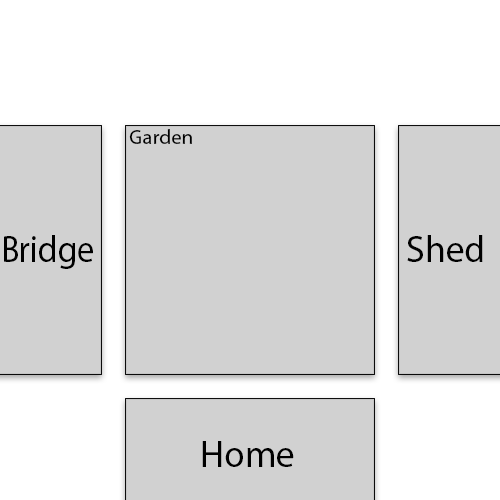
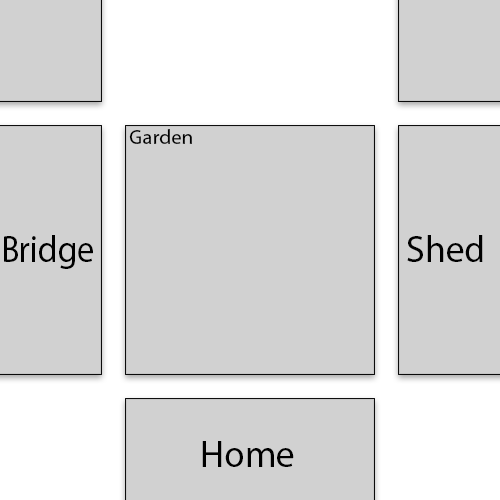
Characters på map + map update

Changed region(s): [[0.78, 0.0, 1.0, 0.24], [0.0, 0.0, 0.21, 0.24]]

diff --git a/F2/src/sp2017g1f2/FXMLDocumentController.java b/F2/src/sp2017g1f2/FXMLDocumentController.java
@@ -134,6 +134,11 @@ public class FXMLDocumentController implements Initializable, WriteToStory {
         BackgroundSize.DEFAULT);
     Background mapWaterfall = new Background(imageWaterfall);
     
+    Image imageCharacter = new Image("file:player.png", 100, 100, true, true);
+    BackgroundImage backgroundImageCharacter = new BackgroundImage(imageCharacter, BackgroundRepeat.NO_REPEAT, BackgroundRepeat.NO_REPEAT, BackgroundPosition.CENTER,
+        BackgroundSize.DEFAULT);
+    Background backgroundCharacter = new Background(backgroundImageCharacter);
+    
     @FXML
     private AnchorPane scene1;
     @FXML
@@ -150,6 +155,8 @@ public class FXMLDocumentController implements Initializable, WriteToStory {
     private AnchorPane title;
     //@FXML
     //private ImageView mapImage;
+    @FXML
+    private AnchorPane characters;
     
     @Override
     public void initialize(URL url, ResourceBundle rb) {
@@ -162,6 +169,7 @@ public class FXMLDocumentController implements Initializable, WriteToStory {
         itemLoad();
         window.setBackground(windowBackground);
         map.setBackground(mapGarden);
+        characters.setBackground(backgroundCharacter);
         //mapImage.setImage(roomGarden);
         //title.setBackground(titleText);
         //game.play();
@@ -187,6 +195,13 @@ public class FXMLDocumentController implements Initializable, WriteToStory {
     }
 
     private void loadMap(String currentRoom) {
+        
+        imageCharacter = new Image("file:" + game.characters() + ".png", 100, 100, true, true);
+        backgroundImageCharacter = new BackgroundImage(imageCharacter, BackgroundRepeat.NO_REPEAT, BackgroundRepeat.NO_REPEAT, BackgroundPosition.CENTER,
+            BackgroundSize.DEFAULT);
+        backgroundCharacter = new Background(backgroundImageCharacter);
+        characters.setBackground(backgroundCharacter);
+        
         switch(currentRoom){
             case "garden":
                 map.setBackground(mapGarden);

diff --git a/F2/src/originalFiles/Game.java b/F2/src/originalFiles/Game.java
@@ -872,4 +872,30 @@ public class Game
     public void setEvilNPCItem(String item) {
         evilNPC.setStolenItem(item);
     }
+    
+    public String characters() {
+        if (currentRoom == pet.getCurrentRoom()) {
+            if (currentRoom == evilNPC.getCurrentRoom()) {
+                if (currentRoom ==  neighbour.getCurrentRoom()) {
+                    return "playerNPCPetNeighbour";
+                }
+                return "playerNPCPet";
+            } else if (currentRoom ==  neighbour.getCurrentRoom()) {
+                return "playerPetNeighbour";
+            } else {
+                return "playerPet";
+            }
+        } else if (currentRoom == evilNPC.getCurrentRoom()) {
+            if (currentRoom ==  neighbour.getCurrentRoom()) {
+                return "playerNPCNeighbour";
+            } else {
+                return "playerNPC";
+            }
+        } else if (currentRoom ==  neighbour.getCurrentRoom()) {
+            return "playerNeighbour";
+        } else {
+            return "player";
+        }
+    }
+    
 }
